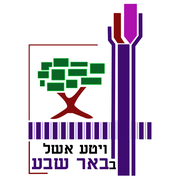
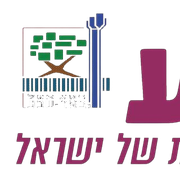
תיקון לוגו עיריית באר שבע ושינוי שם האתר ל-br7tnuaupdate
הוחלף הלוגו לקובץ המיתוג הרשמי שצורף, עודכנו כותרות/מטא/דומיין
ושם פרויקט Vercel ל-br7tnuaupdate.

diff --git a/index.html b/index.html
@@ -5,20 +5,20 @@
   <meta name="viewport" content="width=device-width, initial-scale=1">
   <meta name="theme-color" content="#073b68">
   <meta name="description" content="שינויים זמניים בסככות התחנה המרכזית בבאר שבע, 16–18.11.2026. מצאו בתוך שניות מאיזו סככה יוצא האוטובוס שלכם.">
-  <title>שינויים בסככות התחנה המרכזית | באר שבע</title>
-  <link rel="canonical" href="https://kav-hasakhot.vercel.app/">
-  <link rel="icon" type="image/svg+xml" href="assets/favicon.svg">
+  <title>br7tnuaupdate | שינויים בסככות התחנה המרכזית</title>
+  <link rel="canonical" href="https://br7tnuaupdate.vercel.app/">
   <link rel="icon" type="image/png" href="assets/favicon.png">
   <link rel="apple-touch-icon" href="assets/apple-touch-icon.png">
   <meta property="og:type" content="website">
-  <meta property="og:title" content="שינויים זמניים בסככות התחנה המרכזית | באר שבע">
+  <meta property="og:site_name" content="br7tnuaupdate">
+  <meta property="og:title" content="br7tnuaupdate | שינויים בסככות התחנה המרכזית">
   <meta property="og:description" content="16–18.11.2026 | עבודות תשתית. בחרו יום וקו וגלו מיד מאיזו סככה לעלות.">
   <meta property="og:locale" content="he_IL">
-  <meta property="og:url" content="https://kav-hasakhot.vercel.app/">
-  <meta property="og:image" content="https://kav-hasakhot.vercel.app/assets/logo-beer-sheva.png">
-  <meta property="og:image:alt" content="באר שבע – בירת ההזדמנויות של ישראל">
+  <meta property="og:url" content="https://br7tnuaupdate.vercel.app/">
+  <meta property="og:image" content="https://br7tnuaupdate.vercel.app/assets/logo-beer-sheva-official.png">
+  <meta property="og:image:alt" content="עיריית באר שבע – בירת ההזדמנויות של ישראל">
   <meta name="twitter:card" content="summary">
-  <meta name="twitter:title" content="שינויים בסככות התחנה המרכזית | באר שבע">
+  <meta name="twitter:title" content="br7tnuaupdate | שינויים בסככות התחנה המרכזית">
   <meta name="twitter:description" content="מצאו בתוך שניות מאיזו סככה יוצא האוטובוס שלכם.">
   <link rel="preconnect" href="https://fonts.googleapis.com">
   <link rel="preconnect" href="https://fonts.gstatic.com" crossorigin>
@@ -33,12 +33,15 @@
       <a class="brand" href="https://www.beer-sheva.muni.il/" rel="noopener noreferrer">
         <img
           class="brand-logo"
-          src="assets/logo-beer-sheva-official.svg"
+          src="assets/logo-beer-sheva-official.png"
           width="280"
           height="69"
-          alt="באר שבע – בירת ההזדמנויות של ישראל">
+          alt="עיריית באר שבע – בירת ההזדמנויות של ישראל">
       </a>
-      <p class="brand-tag">מידע לציבור | התחנה המרכזית</p>
+      <div class="brand-meta">
+        <p class="site-name">br7tnuaupdate</p>
+        <p class="brand-tag">מידע לציבור | התחנה המרכזית</p>
+      </div>
     </div>
   </header>
 
@@ -139,8 +142,8 @@
   </main>
 
   <footer class="site-footer">
-    <img class="footer-logo" src="assets/logo-beer-sheva-official.svg" width="220" height="54" alt="באר שבע – בירת ההזדמנויות של ישראל">
-    <p>מידע לציבור | התחנה המרכזית<br>תודה על הסבלנות ושיתוף הפעולה</p>
+    <img class="footer-logo" src="assets/logo-beer-sheva-official.png" width="220" height="54" alt="עיריית באר שבע – בירת ההזדמנויות של ישראל">
+    <p><strong>br7tnuaupdate</strong><br>מידע לציבור | התחנה המרכזית<br>תודה על הסבלנות ושיתוף הפעולה</p>
   </footer>
 
   <div class="toast" id="toast" role="status" aria-live="polite"></div>

diff --git a/js/data.js b/js/data.js
@@ -12,6 +12,7 @@ export const META = {
   hoursNote:
     "העבודות מתוכננות בין השעות 09:00–17:00. שעת הסיום היא סיום העבודות היומי המתוכנן, ולא אישור מפורש להחזרת כל הסככות.",
   hoursShort: "09:00–17:00",
+  siteName: "br7tnuaupdate",
   siteTitle: "שינויים זמניים בסככות התחנה המרכזית",
   brandTag: "מידע לציבור | התחנה המרכזית",
 };

diff --git a/styles.css b/styles.css
@@ -93,6 +93,20 @@ summary:focus-visible {
   max-width: min(280px, 72vw);
   object-fit: contain;
 }
+.brand-meta {
+  display: flex;
+  flex-direction: column;
+  align-items: flex-start;
+  gap: 2px;
+  min-width: 0;
+}
+.site-name {
+  margin: 0;
+  color: var(--navy);
+  font-size: 15px;
+  font-weight: 800;
+  letter-spacing: 0.02em;
+}
 .brand-tag {
   margin: 0;
   color: var(--muted);

diff --git a/README.md b/README.md
@@ -1,15 +1,15 @@
-# שינויים בסככות התחנה המרכזית בבאר שבע
+# br7tnuaupdate
 
-אתר עירוני למציאת סככה חלופית בתחנה המרכזית בימי עבודות התשתית **16–18.11.2026**.
+שינויים בסככות התחנה המרכזית בבאר שבע | 16–18.11.2026
 
-אתר חי: https://kav-hasakhot.vercel.app
+אתר חי: https://br7tnuaupdate.vercel.app
 
 ## שימוש
 
 1. בחירת יום נסיעה  
 2. הקלדת מספר קו או יעד (או בחירה מהירה)  
 3. אם יש כמה כיוונים — בחירת יעד  
-4. הצגת סככה גדול + הדגשה במפה האינטראקטיבית  
+4. הצגת סככה גדולה + הדגשה במפה האינטראקטיבית  
 
 ## מבנה
 
@@ -17,18 +17,14 @@
 |------|--------|
 | `index.html` | מבנה העמוד |
 | `styles.css` | עיצוב עירוני (Mobile First) |
-| `js/data.js` | מקור נתונים מרכזי: ימים, שינויים, סככות, גיאומטריית מפה |
-| `js/engine.js` | חיפוש, נרמול קווים, פתרון סככה |
+| `js/data.js` | מקור נתונים מרכזי |
+| `js/engine.js` | חיפוש ופתרון סככה |
 | `js/map.js` | מפת SVG אינטראקטיבית |
 | `js/app.js` | ממשק משתמש |
-| `tests/lookup.test.mjs` | בדיקות תקינות מחייבות |
+| `tests/lookup.test.mjs` | בדיקות תקינות |
 
 ## בדיקות
 
 ```bash
 node tests/lookup.test.mjs
 ```
-
-## מקורות
-
-הודעת עיריית באר שבע / דן באר שבע ותרשימי הסככות המצורפים.
